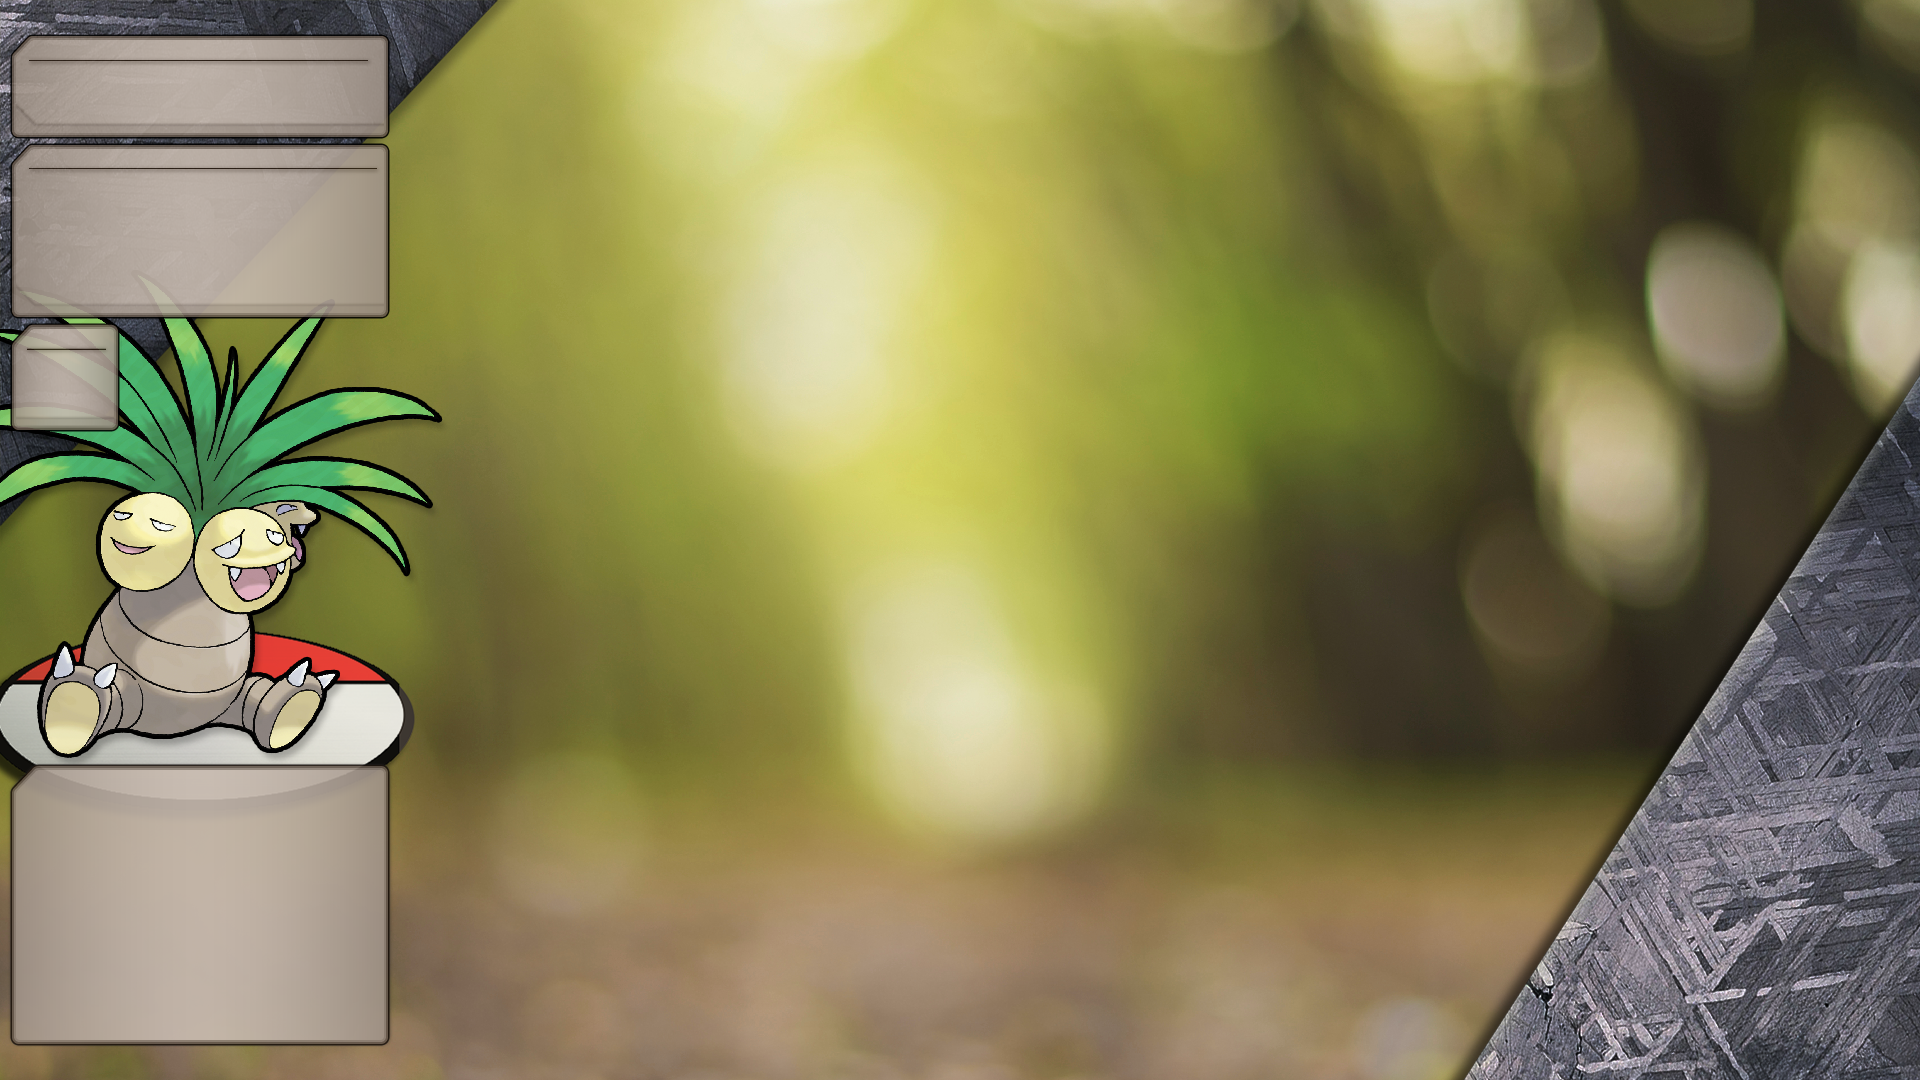
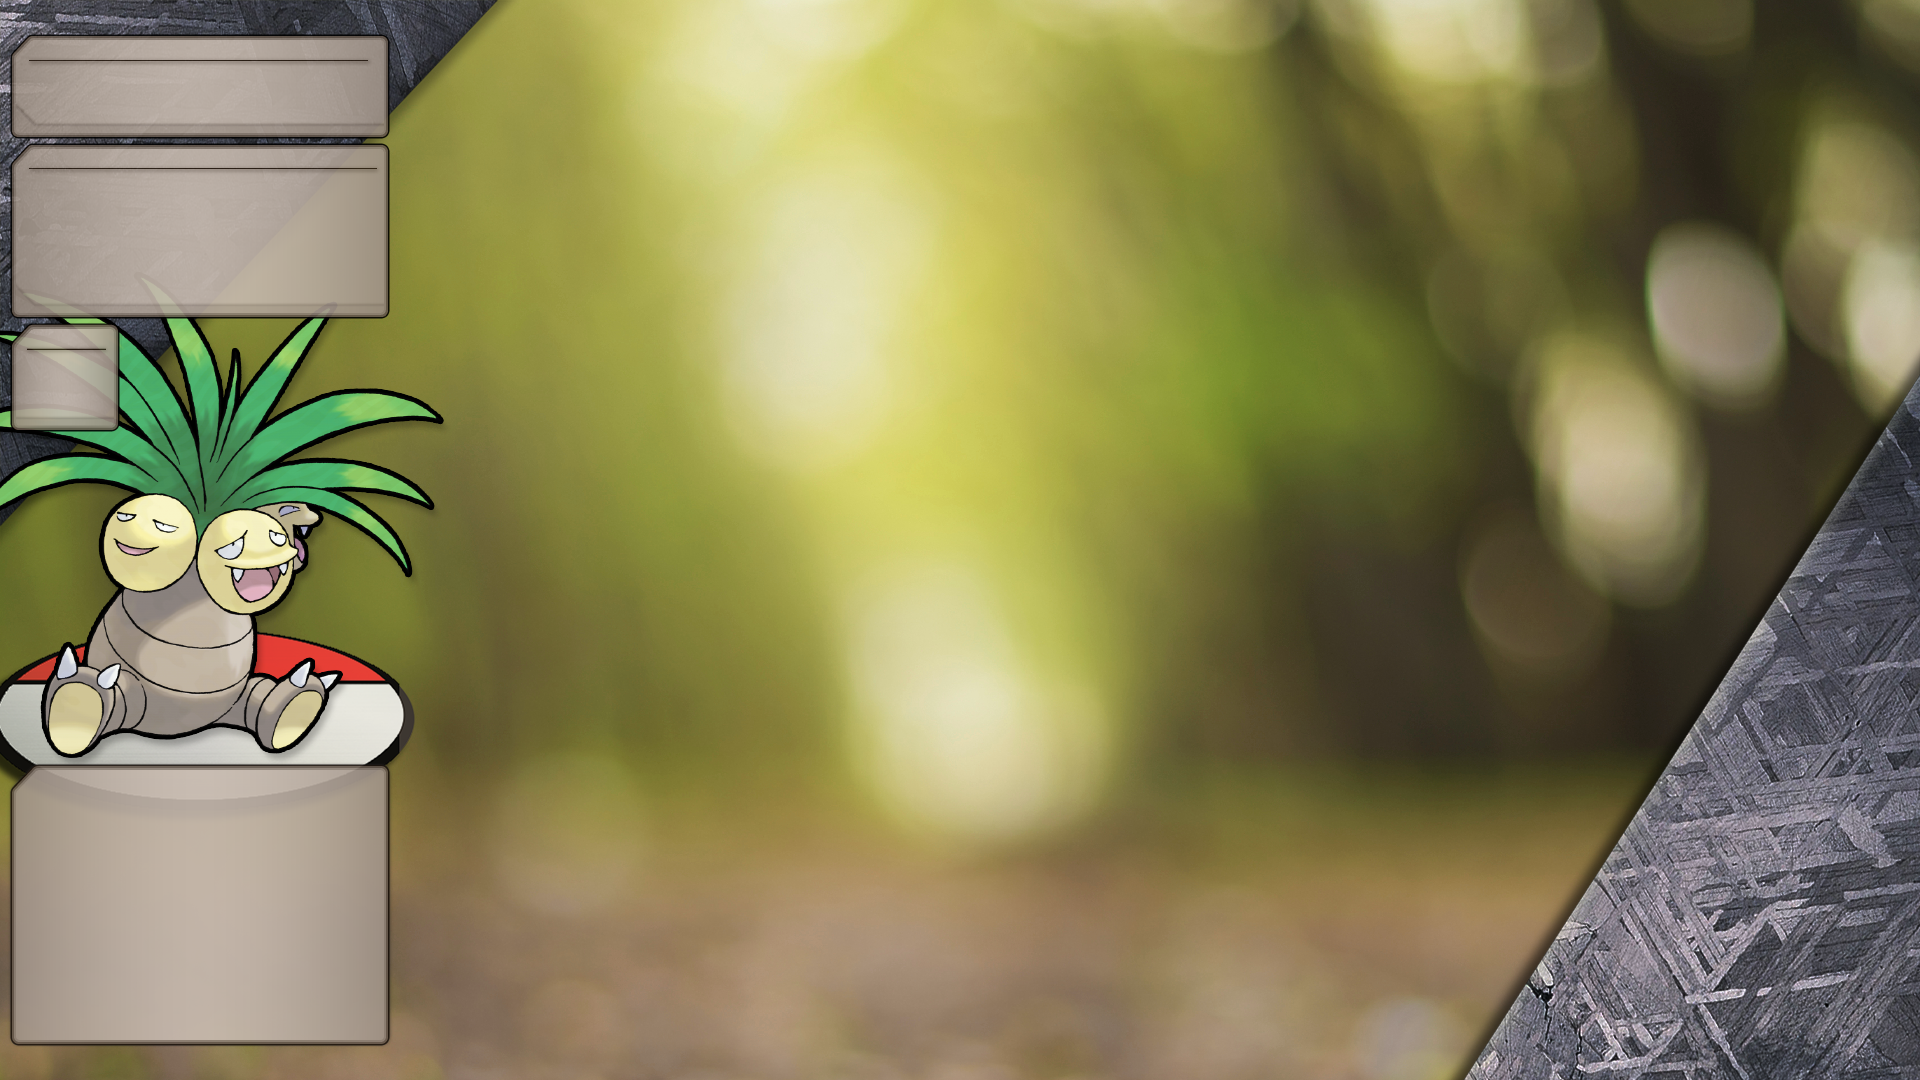
exeggutor fixes

Changed region(s): [[0.0, 0.3056, 0.2188, 0.7028], [0.0, 0.55, 0.0938, 0.7028], [0.1875, 0.4889, 0.2188, 0.5194]]

diff --git a/scripts/vue.js b/scripts/vue.js
@@ -6,7 +6,7 @@ const app = Vue.createApp({
             mapper: null,
 
             // USER CONFIG --------------------------------------------------------------------------------------//
-            starterName: "Primeape", //string name
+            starterName: "Exeggutor", //string name
             overlayName: "", // add "-yellow" or "-red" here based on the game being played (or "-type" for Venomoth's type randomizer)
             secondPlaythrough:   true, //used to mitigate luck on second playthroughs
             refined_forset:              true, //sets special cases for the forest
